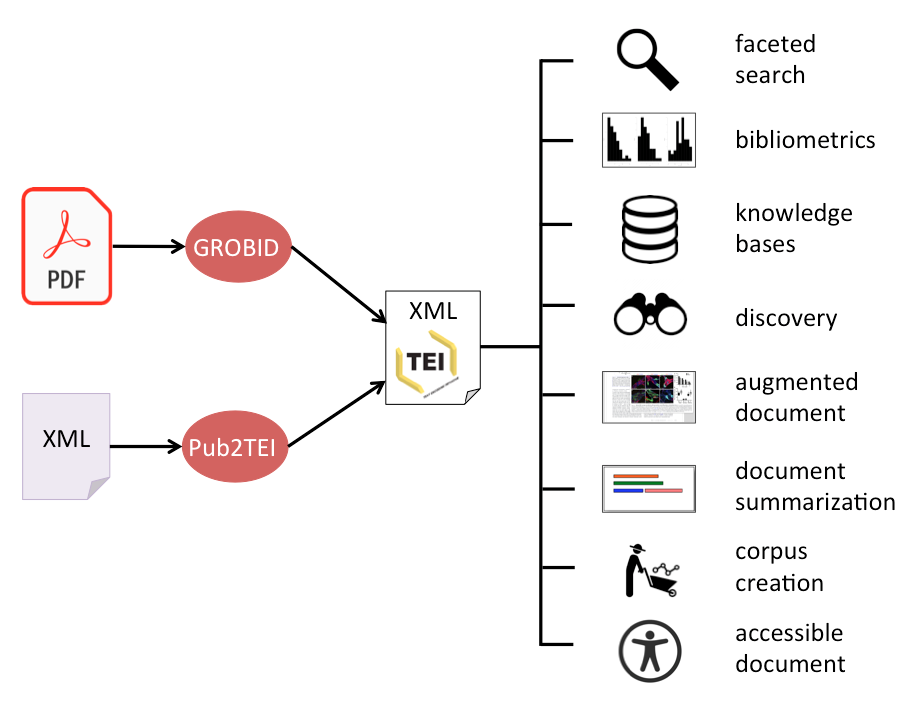
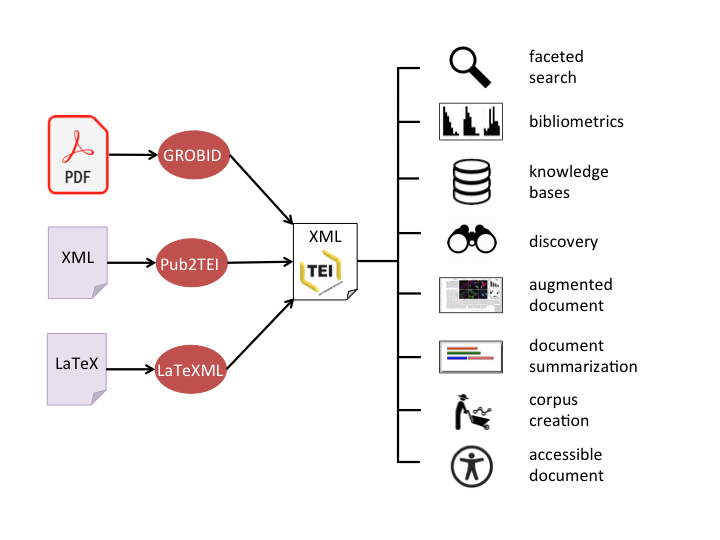
add LaTeXML in the picture

Changed region(s): [[0.0, 0.0296, 1.0, 0.9778]]

diff --git a/doc/Principles.md b/doc/Principles.md
@@ -2,15 +2,15 @@
 
 GROBID is a machine learning library for extracting, parsing, and re-structuring raw documents, in particular PDF, into structured XML/TEI encoded documents and focusing on technical and scientific publications. The goal of GROBID is to facilitate text mining, information extraction, and semantic analysis of scientific publications by transforming them into machine-friendly, structured, and predictable representations. 
 
-In large scale scientific document ingestion tasks, the large majority of documents are only available in PDF (in particular decades of backfiles before the year 2000). Scholar articles are today more frequently available as XML, but often require particular agreements and long negotiations with publishers. PDF remains today the most important format usable under fair-use or under the recent copyrights exception for text mining in the EU. When publisher XML are available, they remain challenging to process because they are encoded in a variety of different native publisher XML formats, often incomplete and inconsistent from one to another, difficult to use at scale.
+In large scale scientific document ingestion tasks, the large majority of documents are only available in PDF (in particular decades of backfiles before the year 2000). Scholar articles are today more frequently available as XML as before, but often require particular agreements and long negotiations with publishers. PDF remains today the most important format usable under fair-use or under the recent copyrights exception for text mining in the EU. When publisher XML are available, they remain challenging to process because they are encoded in a variety of different native publisher XML formats, often incomplete and inconsistent from one to another, difficult to use at scale.
 
 ![Ingesting scientific documents with GROBID](img/ingestion.png)
 
 <p align = "center">
-<b>Fig. 1</b> - Ingesting scientific documents with GROBID
+<b>Fig. 1</b> - Ingesting scientific documents with GROBID, Pub2TEI and LaTeXML
 </p>
 
-To process publisher XML, complementary to GROBID, we built [Pub2TEI](https://github.com/kermitt2/Pub2TEI), a collection of style sheets developed over 11 years able to transform a variety of publisher XML format to the same TEI XML format as produced by GROBID. This common format, which supersedes a dozen of publisher formats and many of their flavors, can centralize further any processing across PDF and heterogeneous XML sources, and support various applications (see __Fig. 1__). 
+To process publisher XML, complementary to GROBID, we built [Pub2TEI](https://github.com/kermitt2/Pub2TEI), a collection of style sheets developed over 11 years able to transform a variety of publisher XML formats to the same TEI XML format as produced by GROBID. This common format, which supersedes a dozen of publisher formats and many of their flavors, can centralize further any processing across PDF and heterogeneous XML sources without information loss, and support various applications (see __Fig. 1__). Similarly, LaTeX sources (typically all available arXiv sources) can be processed with our fork of [LaTeXML](https://github.com/kermitt2/LaTeXML) to produce a TEI representation compatible with GROBID and Pub2TEI output, without information loss from LaTeXML XML.
 
 The rest of this page gives an overview of the main GROBID design principles. Skip it if you are not interested in the technical details. Functionalities are described in the [User Manual](https://grobid.readthedocs.io/en/latest/). Recent benchmarking are available [here](https://grobid.readthedocs.io/en/latest/Benchmarking/).
 
